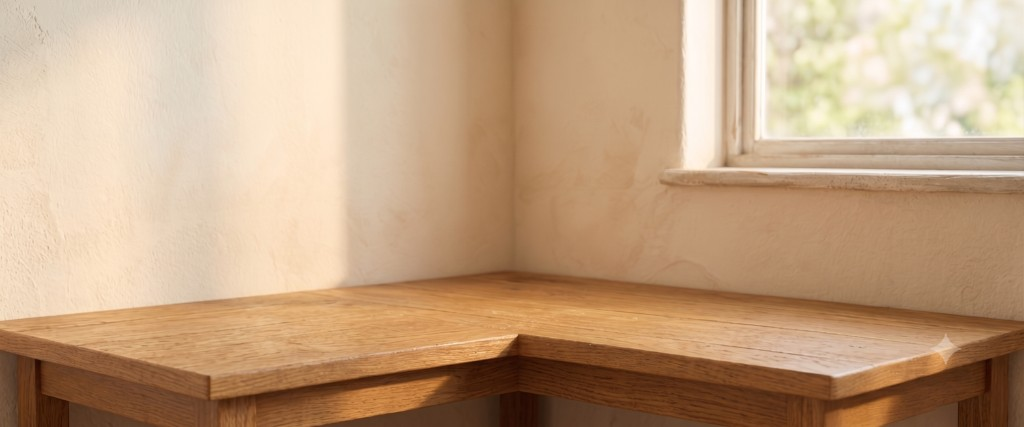
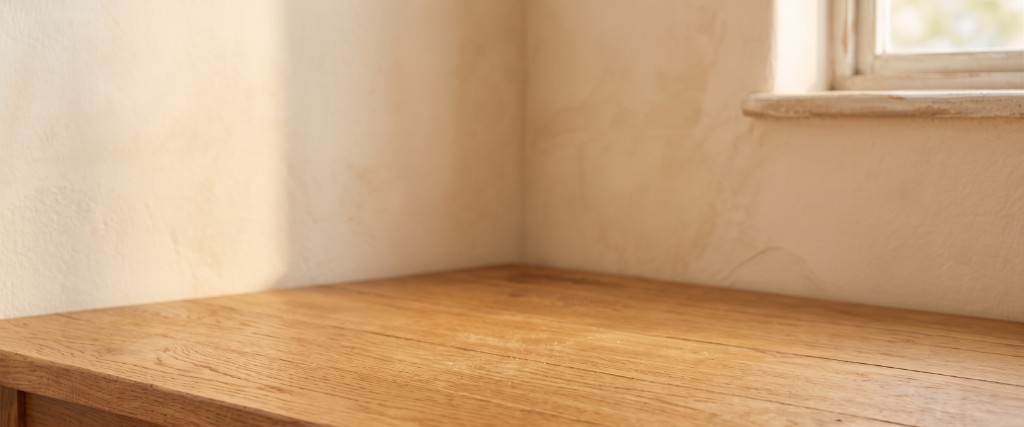
Update sunny window background with new room scene.
Replace the 햇살 창가 backdrop asset and tune object positioning so the wooden table aligns better with the pot.

diff --git a/src/app/page.tsx b/src/app/page.tsx
@@ -213,7 +213,7 @@ const BACKGROUNDS: {
     id: "room",
     label: "햇살 창가",
     src: "/background-01.png",
-    imageClass: "object-cover object-[center_40%]",
+    imageClass: "object-cover object-[center_55%]",
   },
   {
     id: "beige",
